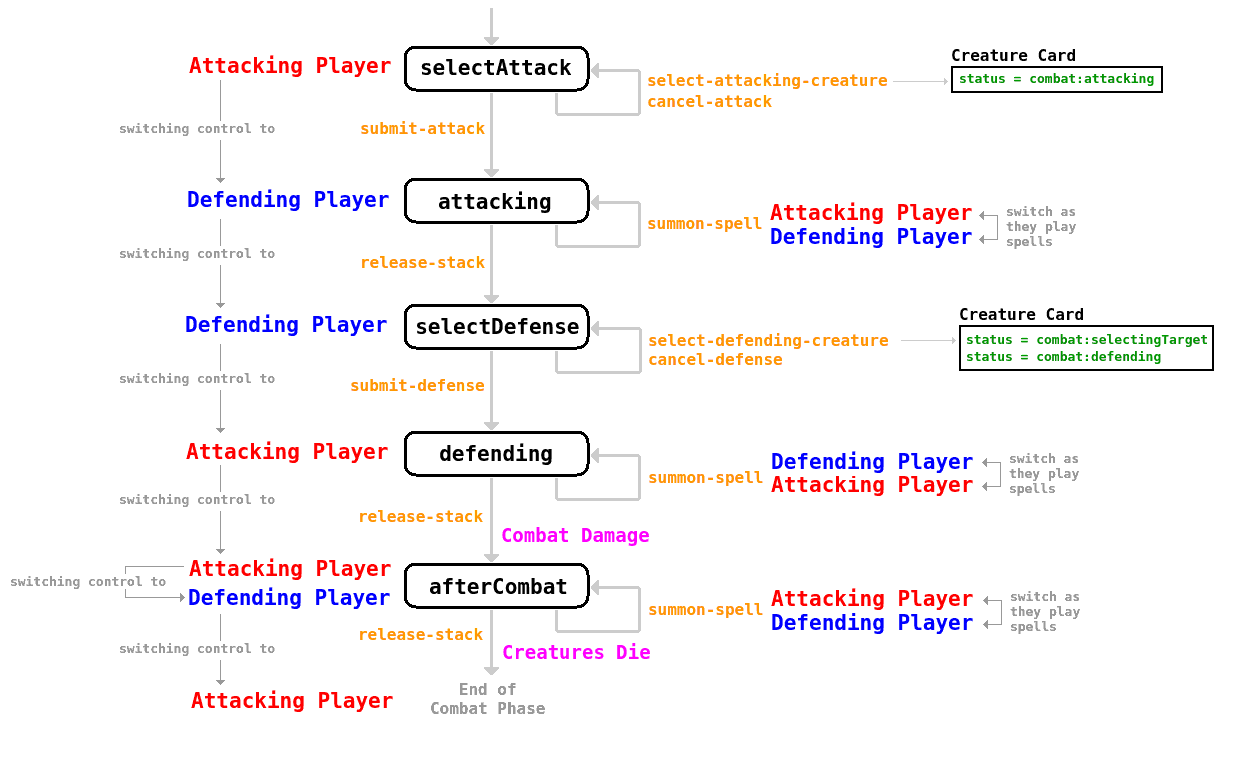
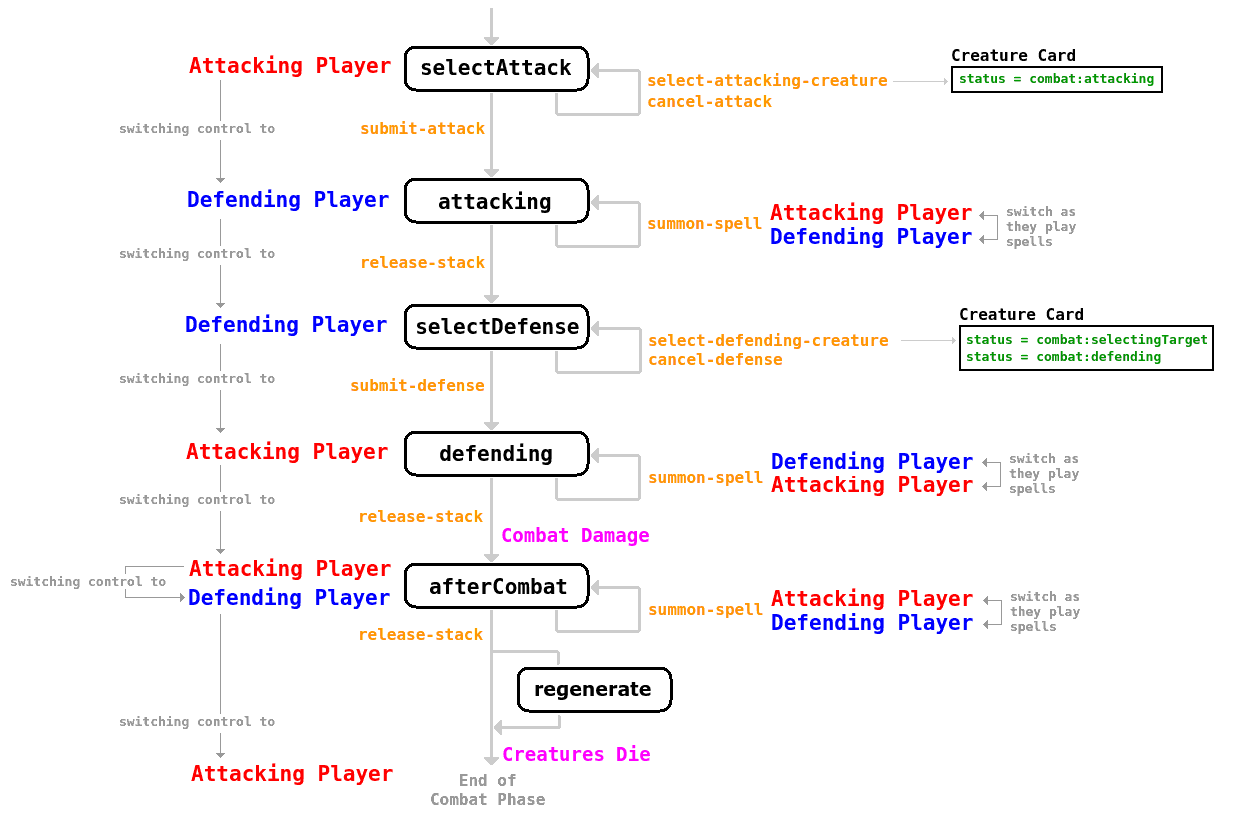
Combat Regenerate + timers

diff --git a/src/app/pages/games-room/game/dialog-combat/dialog-combat.component.ts b/src/app/pages/games-room/game/dialog-combat/dialog-combat.component.ts
@@ -56,6 +56,10 @@ export class DialogCombatComponent {
   mainInfo = '';
   itemInfo = '';
 
+  interval!: ReturnType<typeof setInterval>;
+  progressBar = 0;
+  showTimer = false;
+
   submitDefenseBtnText = 'Defend with current selection';
   anyDefenders = false; // Whether there is any defender assigned
 
@@ -129,36 +133,36 @@ export class DialogCombatComponent {
       if (state.subPhase === 'selectAttack') { this.mainInfo = `Select what creatures you want to attack with`; }
       if (state.subPhase === 'attacking') {
         if (!this.youControl) { this.mainInfo = `Waiting for the opponent to defend or cast any spells`; }
-        else { this.mainInfo = `You may also cast spells before the defense is set`; }
+        else { this.mainInfo = `You may play spells or abilities before the defense is set`; }
       }
       if (state.subPhase === 'selectDefense') { this.mainInfo = `Waiting for the opponent to select the defense`; }
       if (state.subPhase === 'defending') {
-        if (!this.youControl) { this.mainInfo = `Waiting for the opponent cast spells before the combat is executed`; }
+        if (!this.youControl) { this.mainInfo = `Waiting for the opponent before the combat is executed`; }
         else {
           if (!this.anyDefenders) { this.mainInfo = `The opponent is not defending your attack.<br/>`;  }
           else { this.mainInfo = `The opponent has assigned their defense.<br/>`;  }
-          this.mainInfo += `You may cast spells before the combat is executed`; 
+          this.mainInfo += `You may play spells or abilities before the combat is executed`; 
         }
       }
       if (state.subPhase === 'afterCombat') {
-        if (!this.youControl) { this.mainInfo = `Waiting for the opponent cast spells before dying creatures are destroyed`; }
-        else { this.mainInfo = `You may cast spells before dying creatures are destroyed`; }
+        if (!this.youControl) { this.mainInfo = `Waiting for the opponent before dying creatures are destroyed`; }
+        else { this.mainInfo = `You may play spells or abilities before dying creatures are destroyed`; }
       }
 
     } else { // You are the defender
       if (state.subPhase === 'selectAttack') { this.mainInfo = `Your opponent is selecting creatures to attack you (wait for it)`; }
       if (state.subPhase === 'attacking') {
-        if (this.youControl) { this.mainInfo = `You may cast spells before you select your defense`; }
-        else { this.mainInfo = `Wait for the opponent to cast any other spells`; }
+        if (this.youControl) { this.mainInfo = `You may play spells or abilities before you select your defense`; }
+        else { this.mainInfo = `Wait for the opponent to play spells or abilities`; }
       }
       if (state.subPhase === 'selectDefense') { this.mainInfo = `Select what creatures you want to defend with, or do not defend`; }
       if (state.subPhase === 'defending') {
         if (!this.youControl) { this.mainInfo = `Waiting for the opponent cast spells before the combat is executed`; }
-        else { this.mainInfo = `You may cast spells before the combat is executed`; }
+        else { this.mainInfo = `You may play spells or abilities before the combat is executed`; }
       }
       if (state.subPhase === 'afterCombat') {
         if (!this.youControl) { this.mainInfo = `Waiting for the opponent cast spells before dying creatures are destroyed`; }
-        else { this.mainInfo = `You may cast spells before dying creatures are destroyed`; }
+        else { this.mainInfo = `You may play spells or abilities before dying creatures are destroyed`; }
       }
     }
 
@@ -172,7 +176,11 @@ export class DialogCombatComponent {
         });
       }
     }
+
+    // Timer for the step auto continue
+    this.initTimer();
   }
+
 
 
   ngOnChanges() {
@@ -180,7 +188,7 @@ export class DialogCombatComponent {
 
   ngOnDestroy() {
     if (this.stateSub) { this.stateSub.unsubscribe(); }
-    // if (this.interval) { clearInterval(this.interval); }
+    if (this.interval) { clearInterval(this.interval); }
   }
 
 
@@ -206,6 +214,43 @@ export class DialogCombatComponent {
       const option = col.attackingCard.selectableAction;
       this.game.action(option.action, option.params);
     }
+  }
+
+  waitAttacking = false;
+  waitDefending = false;
+  waitAfterCombat = false;
+
+  // Init the timer to automatically release the stack after a few seconds
+  initTimer() {
+    if (!this.youControl) { return; }
+    if (this.subPhase !== 'attacking' && this.subPhase !== 'defending' && this.subPhase !== 'afterCombat') { return; }
+    if (this.subPhase === 'attacking' && this.waitAttacking) { return; }
+    if (this.subPhase === 'defending' && this.waitDefending) { return; }
+    if (this.subPhase === 'afterCombat' && this.waitAfterCombat) { return; }
+    
+    
+
+    this.showTimer = true;
+    const waitingMs = 5000;
+    const ctrlTime = (new Date()).getTime();
+    if (this.interval) { clearInterval(this.interval); }
+    this.interval = setInterval(() => {
+      this.progressBar = Math.min(100, ((new Date()).getTime() - ctrlTime) * 200 / waitingMs);
+      if (this.progressBar >= 100) { // Max reach
+        clearInterval(this.interval); 
+        console.log('AUTO Continue');
+        this.showTimer = false;
+        this.releaseStack();
+      }
+    }, 25);
+  }
+
+  pause() { // Stop the auto stack release
+    clearInterval(this.interval);
+    this.showTimer = false;
+    if (this.subPhase === 'attacking')   { this.waitAttacking = true; }
+    if (this.subPhase === 'defending')   { this.waitDefending = true; }
+    if (this.subPhase === 'afterCombat') { this.waitAfterCombat = true; }
   }
 
   submitAttack()  { this.game.action('submit-attack'); }

diff --git a/src/app/pages/games-room/game-state.service.ts b/src/app/pages/games-room/game-state.service.ts
@@ -265,7 +265,7 @@ export class GameStateService {
     }
 
     this.applyEffects(nextState); // Recalculate state based on current effects
-    // this.checkCreaturesThatRegenerate(nextState);
+    this.checkCreaturesThatRegenerate(nextState);
 
 
 
@@ -610,7 +610,12 @@ export class GameStateService {
       this.switchPlayerControl(nextState, attackingPlayer);
 
     } else if (nextState.subPhase === 'afterCombat') {
-      this.endCombat(nextState);      
+      const regenerateStep = killDamagedCreatures(nextState);
+      if (regenerateStep) { nextState.subPhase = ESubPhase.regenerate; }
+      else { this.endCombat(nextState); }
+
+    } else if (nextState.subPhase === 'regenerate') {
+      this.endCombat(nextState);
     }
   }
 
@@ -672,16 +677,13 @@ export class GameStateService {
   }
 
   private endCombat(nextState: TGameState) {
-    const { playerA, playerB, attackingPlayer, defendingPlayer } = this.getPlayers(nextState);
+    const { attackingPlayer } = this.getPlayers(nextState);
     nextState.cards.filter(c => c.combatStatus || c.blockingTarget).forEach(card => {
       card.combatStatus = null;
       card.blockingTarget = null;
     });
-    const regenerateStep = killDamagedCreatures(nextState);  // Check those creatures that received more damage than defense, and kill them    
-    // if (!regenerateStep) {
-      this.switchPlayerControl(nextState, attackingPlayer);
-      this.endPhase(nextState);
-    // }
+    this.switchPlayerControl(nextState, attackingPlayer);
+    this.endPhase(nextState);
   }
 
   // In case a creature is killed and can be regenerate, give control to the creature's player
@@ -691,9 +693,8 @@ export class GameStateService {
     const regenerateCreature1 = nextState.cards.filter(c => c.controller === '1').find(c => c.canRegenerate && c.isDying);
     if (regenerateCreature2) { nextState.control = regenerateCreature2.controller; }
     if (regenerateCreature1) { nextState.control = regenerateCreature1.controller; }
-    if (nextState.phase === 'combat' && nextState.subPhase === 'afterCombat' && !regenerateCreature1 && !regenerateCreature2) {
-      this.switchPlayerControl(nextState, this.getPlayers(nextState).attackingPlayer);
-      this.endPhase(nextState);
+    if (nextState.phase === 'combat' && nextState.subPhase === 'regenerate' && !regenerateCreature1 && !regenerateCreature2) {
+      this.endCombat(nextState);
     }
   }
 

diff --git a/src/app/core/dataService.ts b/src/app/core/dataService.ts
@@ -208,10 +208,13 @@ export class DataService {
 
 
 
-  async createNewGame(gameId: string, player2DeckId: string, shuffle = true): Promise<string | void> {
+  async createNewGame(gameId: string, player2DeckId: string): Promise<string | void> {
     let docSnap = await getDoc(doc(this.firestore, 'games', gameId));
     if (!docSnap.exists()) { return 'Game Id not found: ' + gameId;  }
     const newGame = docSnap.data() as TGameDBState;
+
+    const testingMode = localStorage.getItem('testingMode');
+    if (testingMode) { console.log('TESTING MODE'); }
 
     // Player 1's deck
     docSnap = await getDoc(doc(this.firestore, 'users', newGame.player1.userId, 'decks', newGame.deckId1));
@@ -230,7 +233,7 @@ export class DataService {
     if (cardsDeck2.length <= 8) { return `Deck ${fullDeck2.deckName} has only ${cardsDeck2.length} cards. You need at least 8 cards to play`; }
 
     // Randomly set who starts the game
-    if (shuffle && Math.random() * 2 >= 0.5) {
+    if (!testingMode && Math.random() * 2 >= 0.5) {
       newGame.turn = '2';
       newGame.control = '2';
     }
@@ -240,7 +243,7 @@ export class DataService {
     const gameCard = (cardId: string, playerNum: '1' | '2', order: number): TDBGameCard | null => {
       const card = this.dbCards.find(c => c.id === cardId);
       if (!card) { return null; }
-      if (shuffle) { order = Math.round(Math.random() * 9999); }
+      if (!testingMode) { order = Math.round(Math.random() * 9999); } // Shuffle
       // if (card['units']) { delete card.units };
       return {
         ...card,
@@ -263,7 +266,7 @@ export class DataService {
       } as TDBGameCard;
     }
 
-    // [cardsDeck1, cardsDeck2] = this.testDecks();
+    if (testingMode) { [cardsDeck1, cardsDeck2] = this.testDecks(); } // Force custom decks for testing
 
     const deck1 = cardsDeck1.map((cardId, ind) => gameCard(cardId, '1', ind)).filter(c => !!c) as Array<TDBGameCard>;
     const deck2 = cardsDeck2.map((cardId, ind) => gameCard(cardId, '2', ind)).filter(c => !!c) as Array<TDBGameCard>;

diff --git a/src/app/pages/games-room/game/dialog-combat/dialog-combat.component.html b/src/app/pages/games-room/game/dialog-combat/dialog-combat.component.html
@@ -1,11 +1,18 @@
 <div class="combat h-cards-len-{{hCardsLen}}" [class.minimized]="minimized">
   <div class="min-btn" (click)="minimized = !minimized">{{minimized ? title : '-'}}</div>
-  <h2>{{title}}</h2>
-
-  <div *ngIf="game.debugMode">CONTROL = {{youControl ? 'Me' : 'Opponent'}} - subPhase = "{{subPhase}}"</div>
-
+  <div>
+    <h2>{{title}}</h2>
+    <div class="combat-phases">
+      <span class="subphase" [class.active]="subPhase === 'selectAttack'">Select Attackers</span>
+      <span class="subphase" [class.active]="subPhase === 'attacking'">Attacking</span>
+      <span class="subphase" [class.active]="subPhase === 'selectDefense'">Select Defenders</span>
+      <span class="subphase" [class.active]="subPhase === 'defending'">Defending</span>
+      <span class="subphase" [class.active]="subPhase === 'afterCombat'">After Combat</span>
+      <span class="subphase" [class.active]="subPhase === 'regenerate'">Regeneration</span>
+    </div>
+  </div>
   
-
+  <div *ngIf="game.debugMode">CONTROL = {{youControl ? 'Me' : 'Opponent'}} - subPhase = "{{subPhase}}"</div>
 
   <!-- View for attacker -->
   <div class="arena" *ngIf="attacker === 'A'">
@@ -113,6 +120,12 @@
   <div class="btns-box">
     <span class="main-info" *ngIf="itemInfo" [innerHtml]="itemInfo"></span>
     <span class="main-info" *ngIf="mainInfo && !itemInfo" [innerHtml]="mainInfo"></span>
+
+    <div *ngIf="showTimer" class="wating-progress-bar">
+      <div class="time" [style.width.px]="progressBar"></div>
+    </div>
+    <bf-btn *ngIf="showTimer" (bfClick)="pause()" bfText="Wait" bfIcon="icon-pause2"></bf-btn>
+    
 
     <bf-btn *ngIf="attacker === 'A' && subPhase === 'selectAttack'"  bfText="Cancel"  [bfDisabled]="!youControl" (bfClick)="cancelAttack()"  bfIcon="icon-cross"></bf-btn>
     <bf-btn *ngIf="attacker === 'A' && subPhase === 'selectAttack'"  bfText="Submit Attack"  [bfDisabled]="!youControl" (bfClick)="submitAttack()"  bfIcon="icon-arrow-right3"></bf-btn>

diff --git a/src/app/pages/games-room/game/dialog-combat/dialog-combat.component.scss b/src/app/pages/games-room/game/dialog-combat/dialog-combat.component.scss
@@ -6,7 +6,7 @@
   @include resizable-panel(25px, 25px, 0px);
 
   top: calc(var(--size-ref) * 0.35);
-  height: calc(var(--size-ref) * 6.50);
+  height: calc(var(--size-ref) * 7);
 
   .arena {
     padding: 0 15px;
@@ -79,4 +79,43 @@
   
   }
 
+  .combat-phases {
+    margin: 2px 0;
+    width: 100%;
+    // text-align: left;
+    .subphase {
+      display: inline-block;
+      padding: 0px 5px;
+      background: gray;
+      color: white;
+      position: relative;
+      opacity: 30%;
+      &.active { opacity: 100%; }
+    }
+    .subphase + .subphase { margin-left: 2px; }
+  }
+
+
+  .btns-box {
+    bf-btn { align-self: end; }
+  }
+
+  .wating-progress-bar {
+    align-self: flex-end;
+    margin-left: 15px;
+    width: 100px;
+    height: 35px;
+    border: 1px solid black;
+    box-shadow: inset 2px 2px 5px 0px #757575;
+    background: #bed1be;
+    .time {
+      height: 100%;
+      background-color: #525254;;
+    }
+  }
+
+  .pause-btn {
+    margin: 10px 0 30px;
+    bf-btn { transform: scale(2); }
+  }
 }

diff --git a/src/app/pages/games-room/game/game.component.ts b/src/app/pages/games-room/game/game.component.ts
@@ -383,6 +383,20 @@ export class GameComponent {
       // Don't stop at the select defense if there are no creatures to select for the defense
       if (this.state.subPhase === 'selectDefense' && !selectableDefendingCreatures && !defendingCreatures) { return advancePhase(() => this.game.action('submit-defense')); }
 
+      if (this.state.subPhase === 'attacking' || this.state.subPhase === 'defending') {
+        if (!options.find(o => {
+          if (o.action === 'summon-spell') { return true; }
+          if (o.action === 'trigger-ability') {
+            const card = this.state.cards.find(c => c.gId === o.params.gId);
+            if (card?.type === 'creature') { return true; }
+          }
+          return false;
+        })) {
+          console.log('You have no instants/interruptions or abilities to play, so autoadvance');
+          // return advancePhase(() => this.game.action('release-stack'));
+        }
+      }
+
     } 
 
     // Don't stop at the discard phase, if you don't have to discard

diff --git a/src/app/pages/games-room/games-room.component.ts b/src/app/pages/games-room/games-room.component.ts
@@ -158,7 +158,7 @@ export class GamesRoomComponent {
     await this.deleteGame(game.gameId);
     const player1 = { id: game.player1.userId, name: game.player1.name, deckId: game.deckId1 };
     await this.dataService.requestNewGame(player1, game.player2.userId, game.gameId);
-    await this.dataService.createNewGame(game.gameId, game.deckId2, false);
+    await this.dataService.createNewGame(game.gameId, game.deckId2);
     this.growl.success('Game reset');
     // this.goToGame(gameId);
   }

diff --git a/src/app/core/types.ts b/src/app/core/types.ts
@@ -33,6 +33,7 @@ export enum ESubPhase {
   selectDefense  = 'selectDefense', 
   defending      = 'defending', 
   afterCombat    = 'afterCombat',
+  regenerate     = 'regenerate',
 }
 
 export type TCard = {
